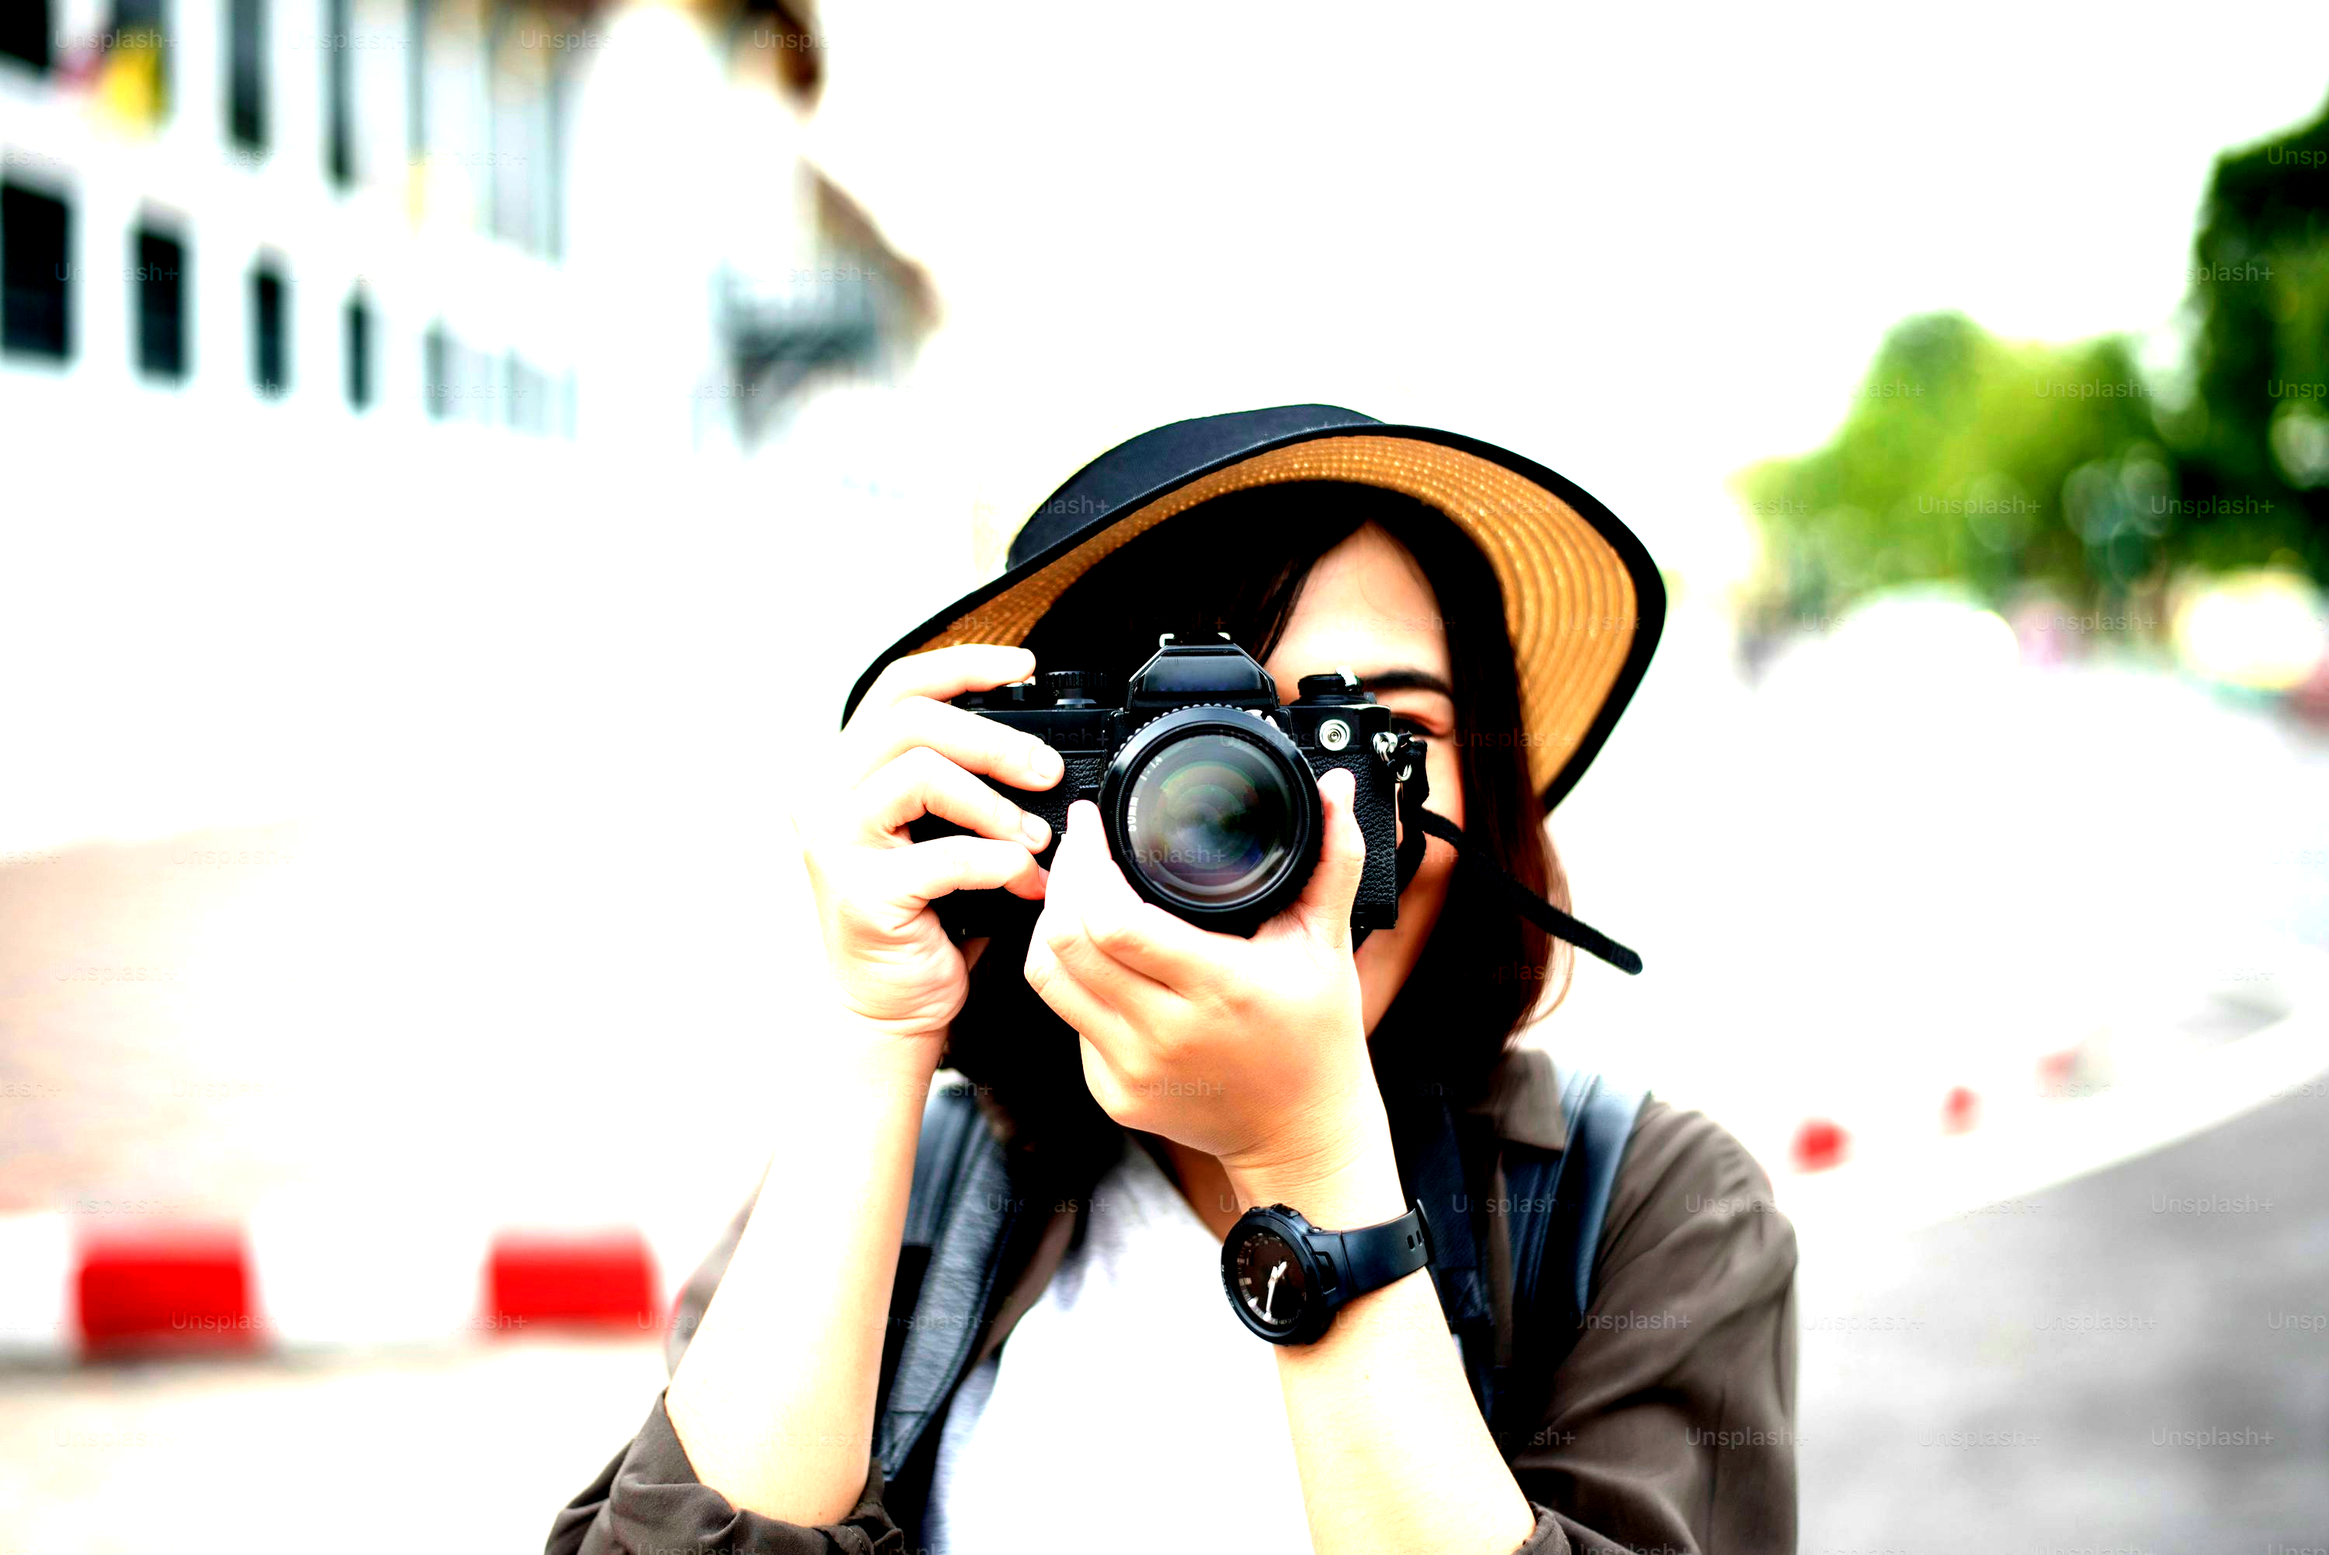
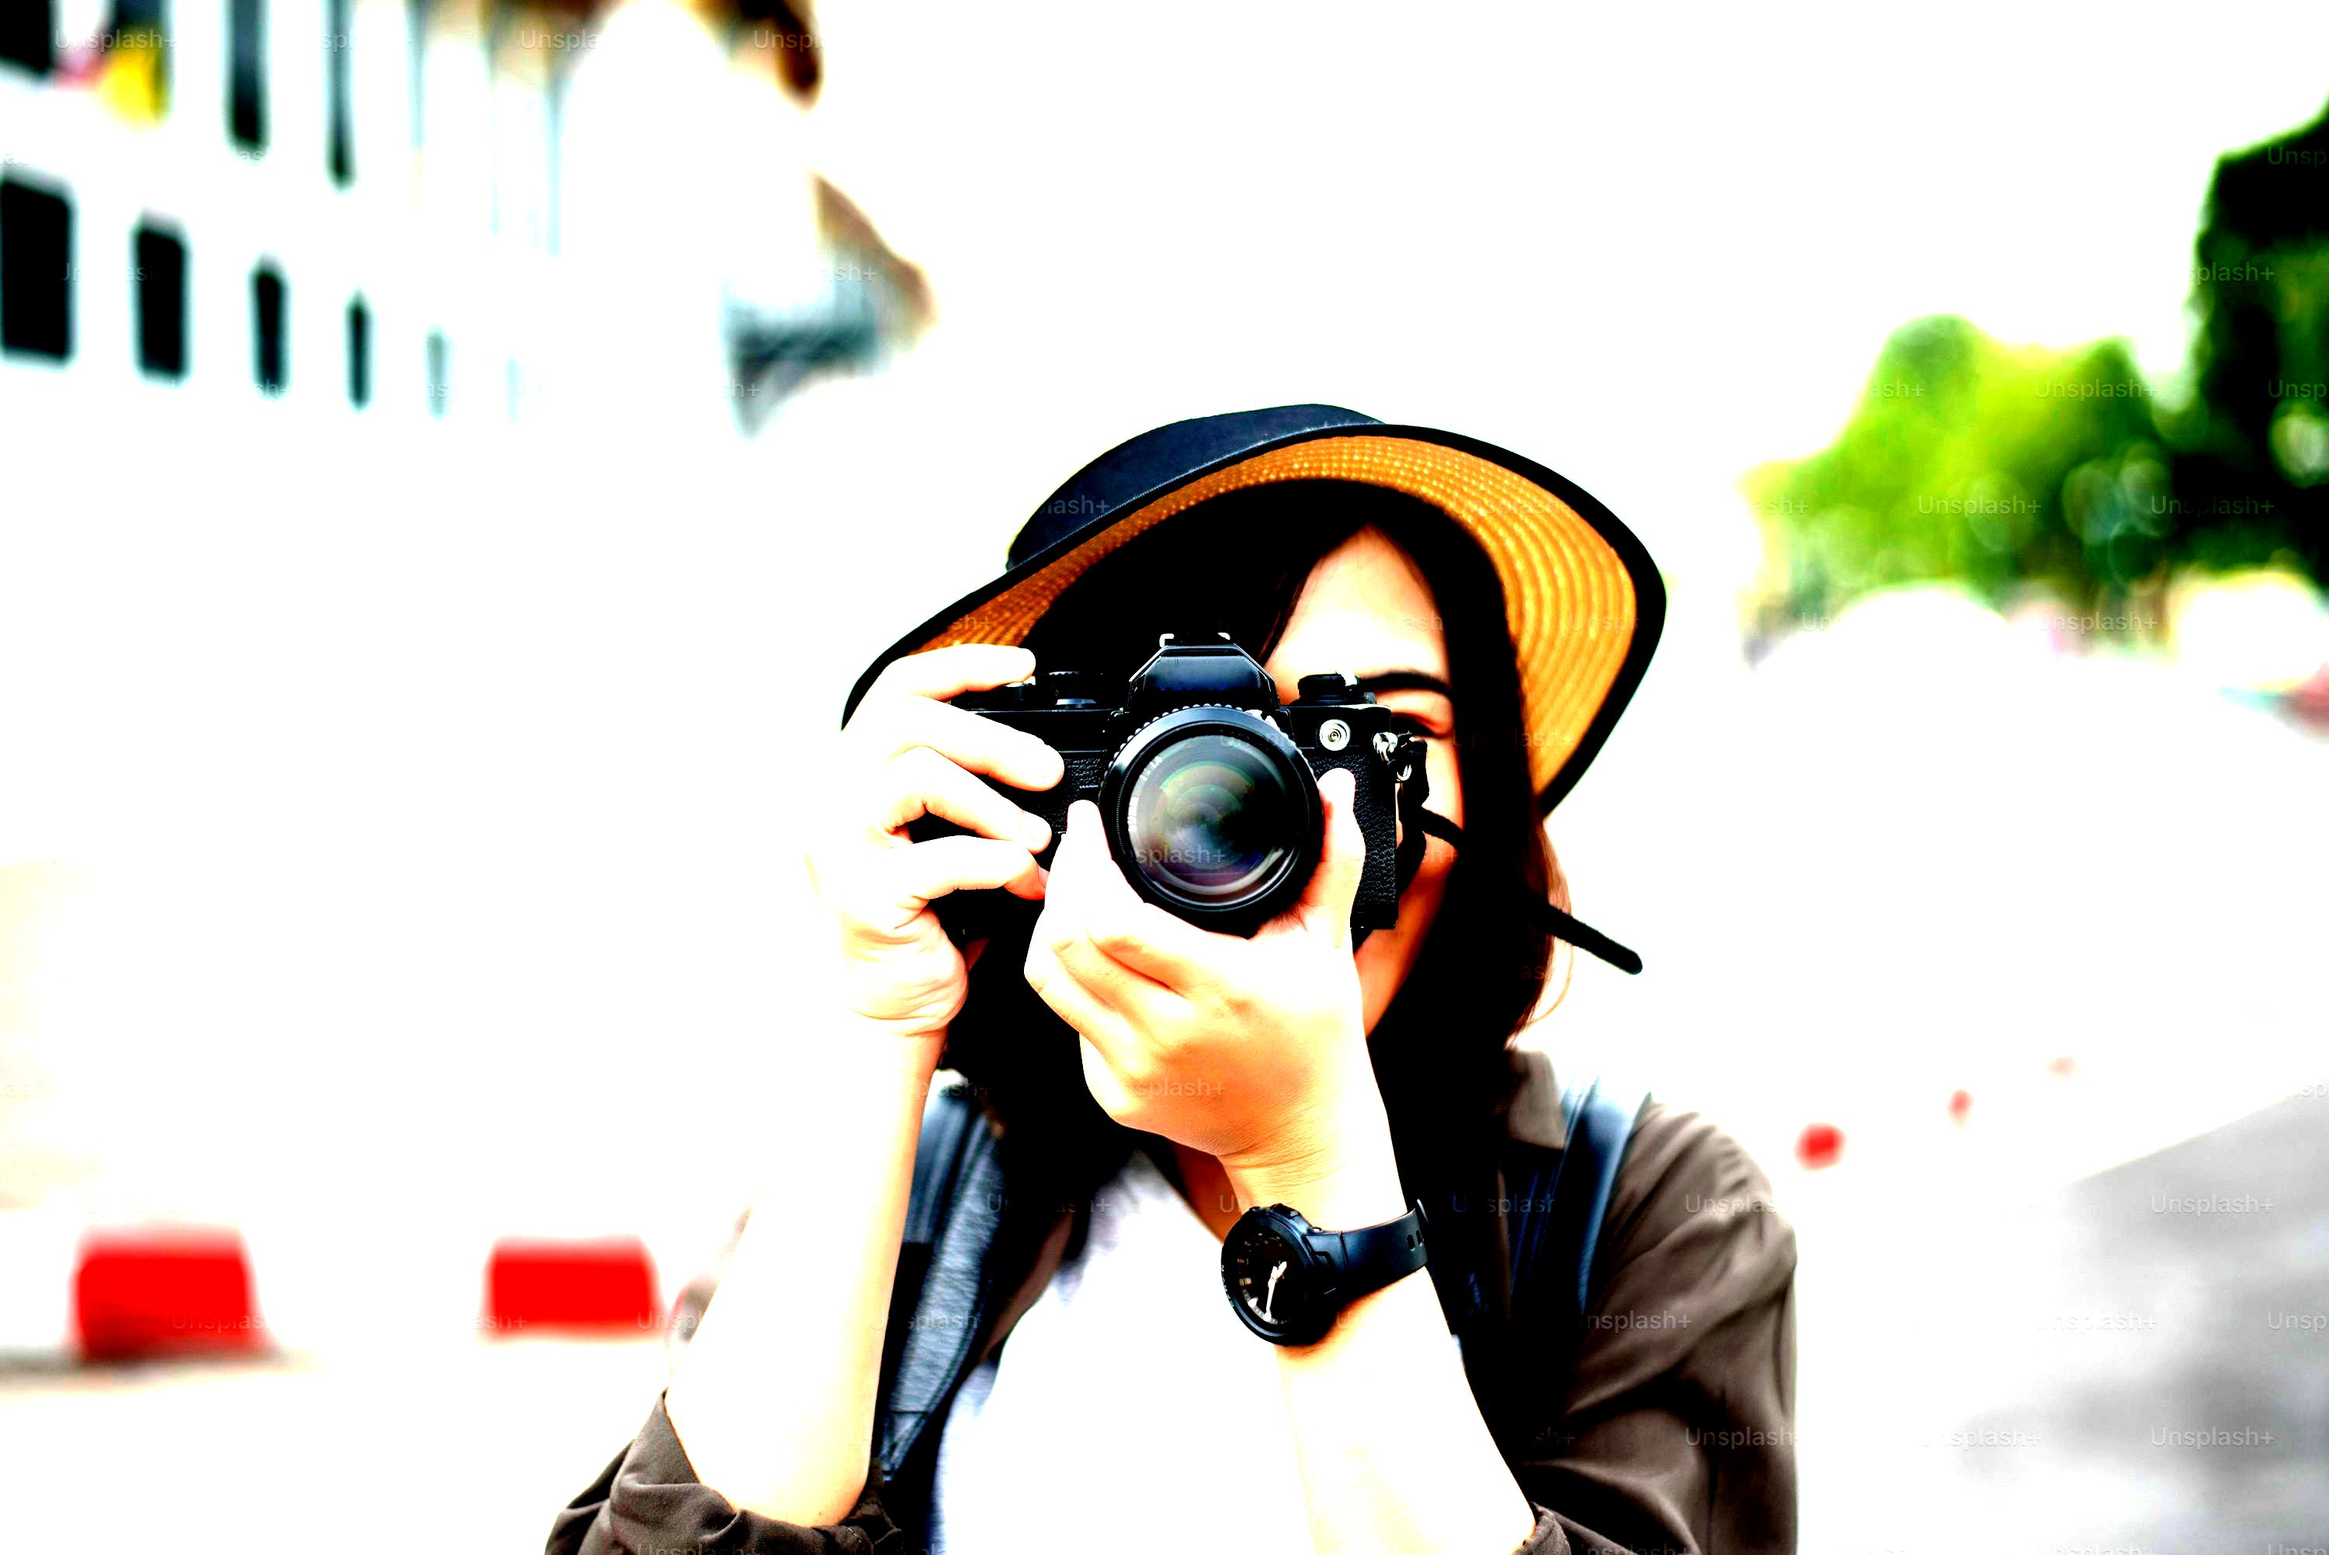
Add bugs for contrast imge

diff --git a/apps/basic-processing/src/services/contrast.ts b/apps/basic-processing/src/services/contrast.ts
@@ -9,19 +9,20 @@ import * as path from 'path';
 export class ContrastService {
   private applyContrast(imageData: Buffer, width: number, height: number, channels: number, factor: number): Buffer {
     const result = Buffer.alloc(imageData.length);
-    const f = factor;
+    const f = factor / 2;
 
-    // Calculate contrast adjustment parameters
-    const mean = 128;
+    const mean = 127;
     const adjustment = (259 * (f + 255)) / (255 * (259 - f));
 
-    for (let y = 0; y < height; y++) {
-      for (let x = 0; x < width; x++) {
+    for (let y = 0; y <= height; y++) {
+      for (let x = 0; x <= width; x++) {
         for (let c = 0; c < channels; c++) {
           const pixelIndex = (y * width + x) * channels + c;
+
+          if (pixelIndex >= imageData.length) continue;
+
           const pixel = imageData[pixelIndex];
 
-          // Apply contrast adjustment formula
           const newValue = Math.round(mean + adjustment * (pixel - mean));
           result[pixelIndex] = Math.min(Math.max(newValue, 0), 255);
         }
@@ -36,21 +37,20 @@ export class ContrastService {
       const { imagePath, factor } = data;
 
       if (!fs.existsSync(imagePath)) {
-        throw new Error('File does not exist');
+        throw new Error('Image not found');
       }
 
-      const outputDir = path.join(process.cwd(), 'apps/basic-processing/output_images');
-      const outputFileName = `contrast_${factor}_image.png`;
-      const outputFilePath = path.join(outputDir, outputFileName);
+      const outputDir = path.join(process.cwd(), 'apps/basic-processing/output_images/');
+      const outputFileName = `contrast_${Math.floor(Math.random() * 1000)}.png`;
 
       if (!fs.existsSync(outputDir)) {
-        fs.mkdirSync(outputDir, { recursive: true });
+        fs.mkdirSync(outputDir);
       }
 
       const image = sharp(imagePath);
       const metadata = await image.metadata();
       const { width, height } = metadata;
-      const channels = 3;
+      const channels = 4;
 
       const rawData = await image.raw().toBuffer();
 
@@ -61,23 +61,23 @@ export class ContrastService {
         raw: {
           width: width!,
           height: height!,
-          channels: channels
+          channels: 3
         }
       })
-        .png()
-        .toFile(outputFilePath);
+        .jpeg()
+        .toFile(outputFileName);
 
       return {
         success: true,
-        message: 'Contrast adjusted using custom method',
-        savedImagePath: outputFilePath,
+        message: 'Contrast adjustment completed successfully',
+        savedImagePath: outputFileName,
       };
     } catch (error) {
-      console.error('Contrast adjustment error:', error);
+      console.error('Error adjusting contrast:', error.message);
       return {
         success: false,
-        message: 'Failed to adjust contrast',
-        error: error.message,
+        message: 'Contrast adjustment failed',
+        error: error,
       };
     }
   }
